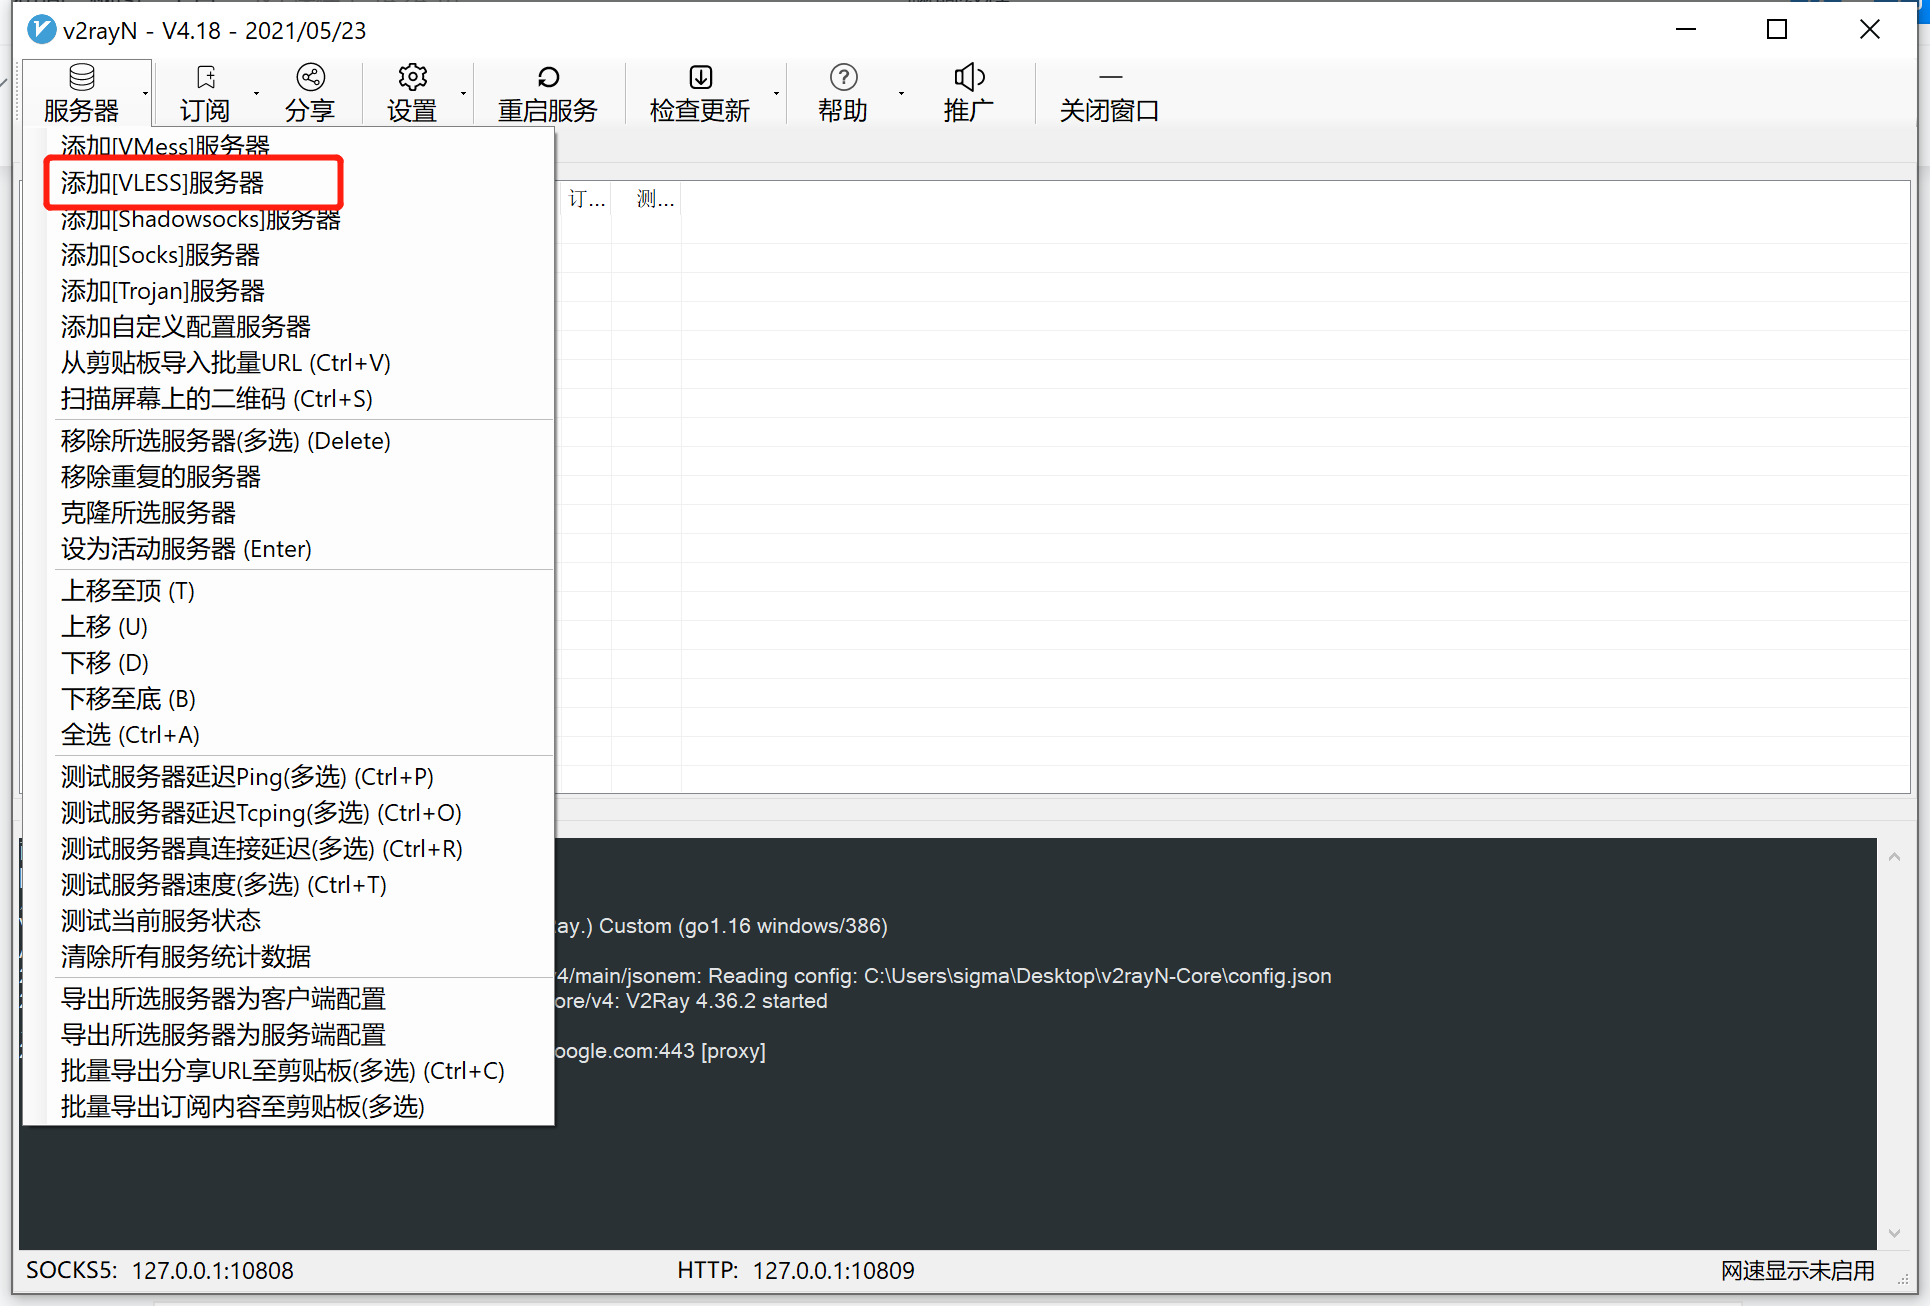
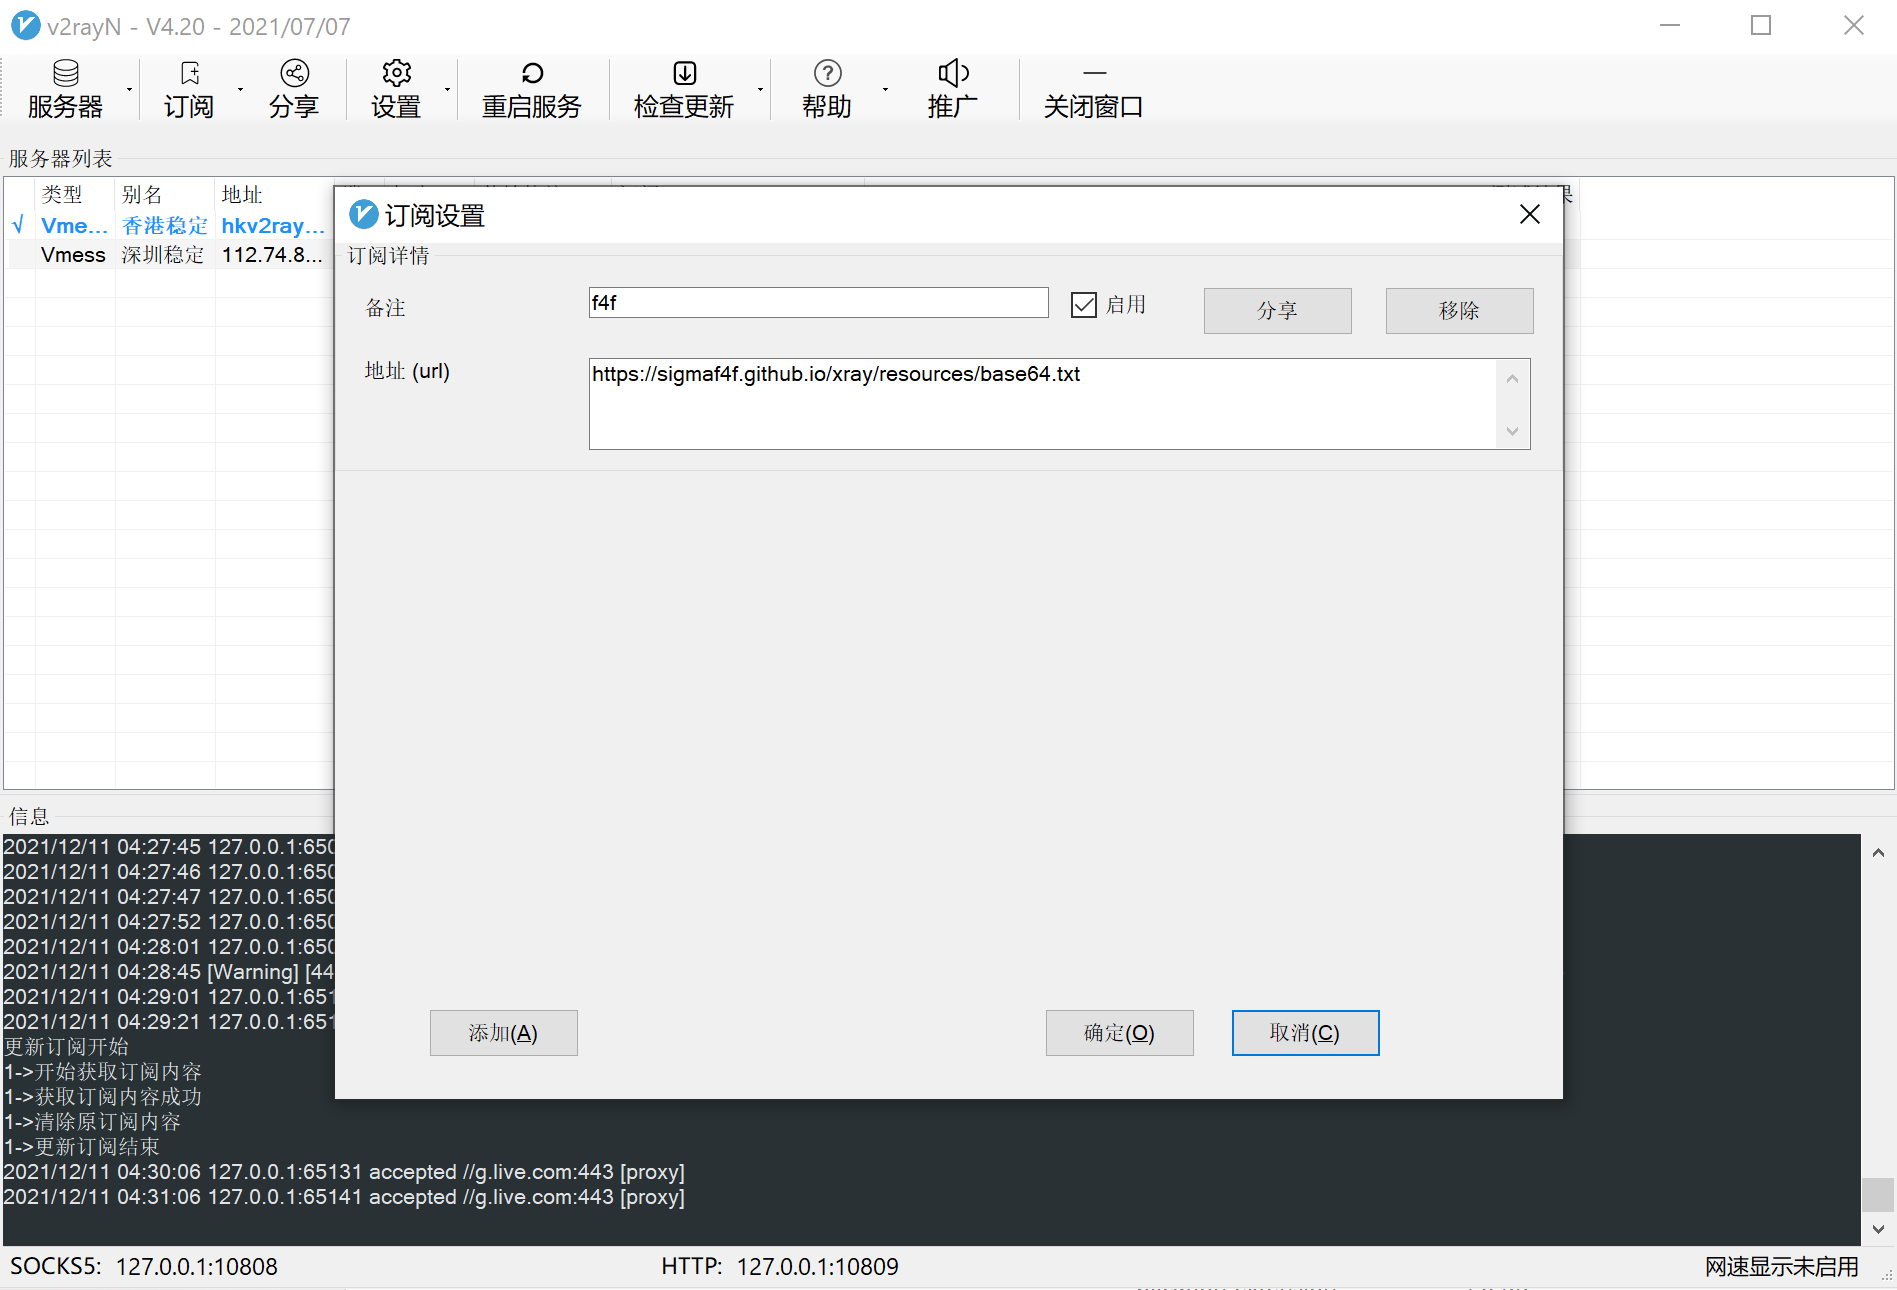
all done

diff --git a/docs/index.html b/docs/index.html
@@ -12,7 +12,7 @@
   <div id="app"></div>
   <script>
     window.$docsify = {
-      // coverpage: true,
+      coverpage: true,
       loadNavbar: true,
       loadSidebar: true,
       subMaxLevel: 2

diff --git a/docs/_coverpage.md b/docs/_coverpage.md
@@ -1,15 +1,13 @@
 <!-- _coverpage.md -->
 
-![logo](_media/icon.svg)
+![logo](images/logo.png)
 
-# docsify <small>3.5</small>
+# First 4 Figures <small>xray</small>
 
-> 一个神奇的文档网站生成器。
+> 用xray帮助F4F团队无障碍翻墙
 
-- 简单、轻便 (压缩后 ~21kB)
-- 无需生成 html 文件
-- 众多主题
+- 支持iphone，android
+- windows，mac
+- 境外境内来回翻
 
-[GitHub](https://github.com/docsifyjs/docsify/)
-[Get Started](#docsify)
-[tet](#index)
+[Get Started](#关于科学上网)

diff --git a/docs/content/windows.md b/docs/content/windows.md
@@ -18,6 +18,18 @@
 
 ![](../images/windows/4.png)
 
+备注可以随意命名
+
+?>url: https://sigmaf4f.github.io/xray/resources/base64.txt
+
+# 3.更新订阅
+
+>先更新订阅，再选择服务器
+
+![](../images/windows/5.png)
+
+根据要翻墙出境还是要，翻墙回大陆选择不同的服务器。（香港意味着翻墙出境，深圳意味着翻墙回大陆看爱奇艺等视频网站）
+
 # 4.选择自动配置系统代理
 
 ![](../images/windows/6.png)

diff --git a/docs/content/iphone.md b/docs/content/iphone.md
@@ -16,10 +16,7 @@
 
 # 2.打开shadowrocket 点击左上角，扫描二维码
 
-| 香港 |  | 深圳 |
-| ------ | ------ | ------ |
-| ![](../images/qrcode/hk.png) | <-翻墙出境        翻墙回大陆-> | ![](../images/qrcode/sz.png) |
-
+![](../images/iphone/1.png)
 
 # 3.点击连通性测试，看到绿色数字后，点击第一行未连接开关，则连通
 

diff --git a/docs/README.md b/docs/README.md
@@ -1,4 +1,4 @@
-# 关于科学上网
+# 关于科学上网 
 
 我们国家不仅有Great Wall长城，还有Great Firewall，伟大的防火墙防止我们接触一些国家不希望我们接触的东西，但是好奇害死猫，总有人好奇想去外面看看，这是就是翻墙，也叫科学上网。说起翻墙，大家第一时间想到的就是VPN。
 

diff --git a/docs/content/mac.md b/docs/content/mac.md
@@ -18,7 +18,7 @@
 
 ![](../images/mac/4.png)
 
-> 如果无法打开gihub，[点击这里下载](https://sigmaf4f.github.io/xray/resources/Xray-macos-64.dmg)
+> 如果无法打开gihub，[点击这里下载](https://sigmaf4f.github.io/xray/resources/Xray-macos-64.zip)
 
 # 3.打开应用程序
 
